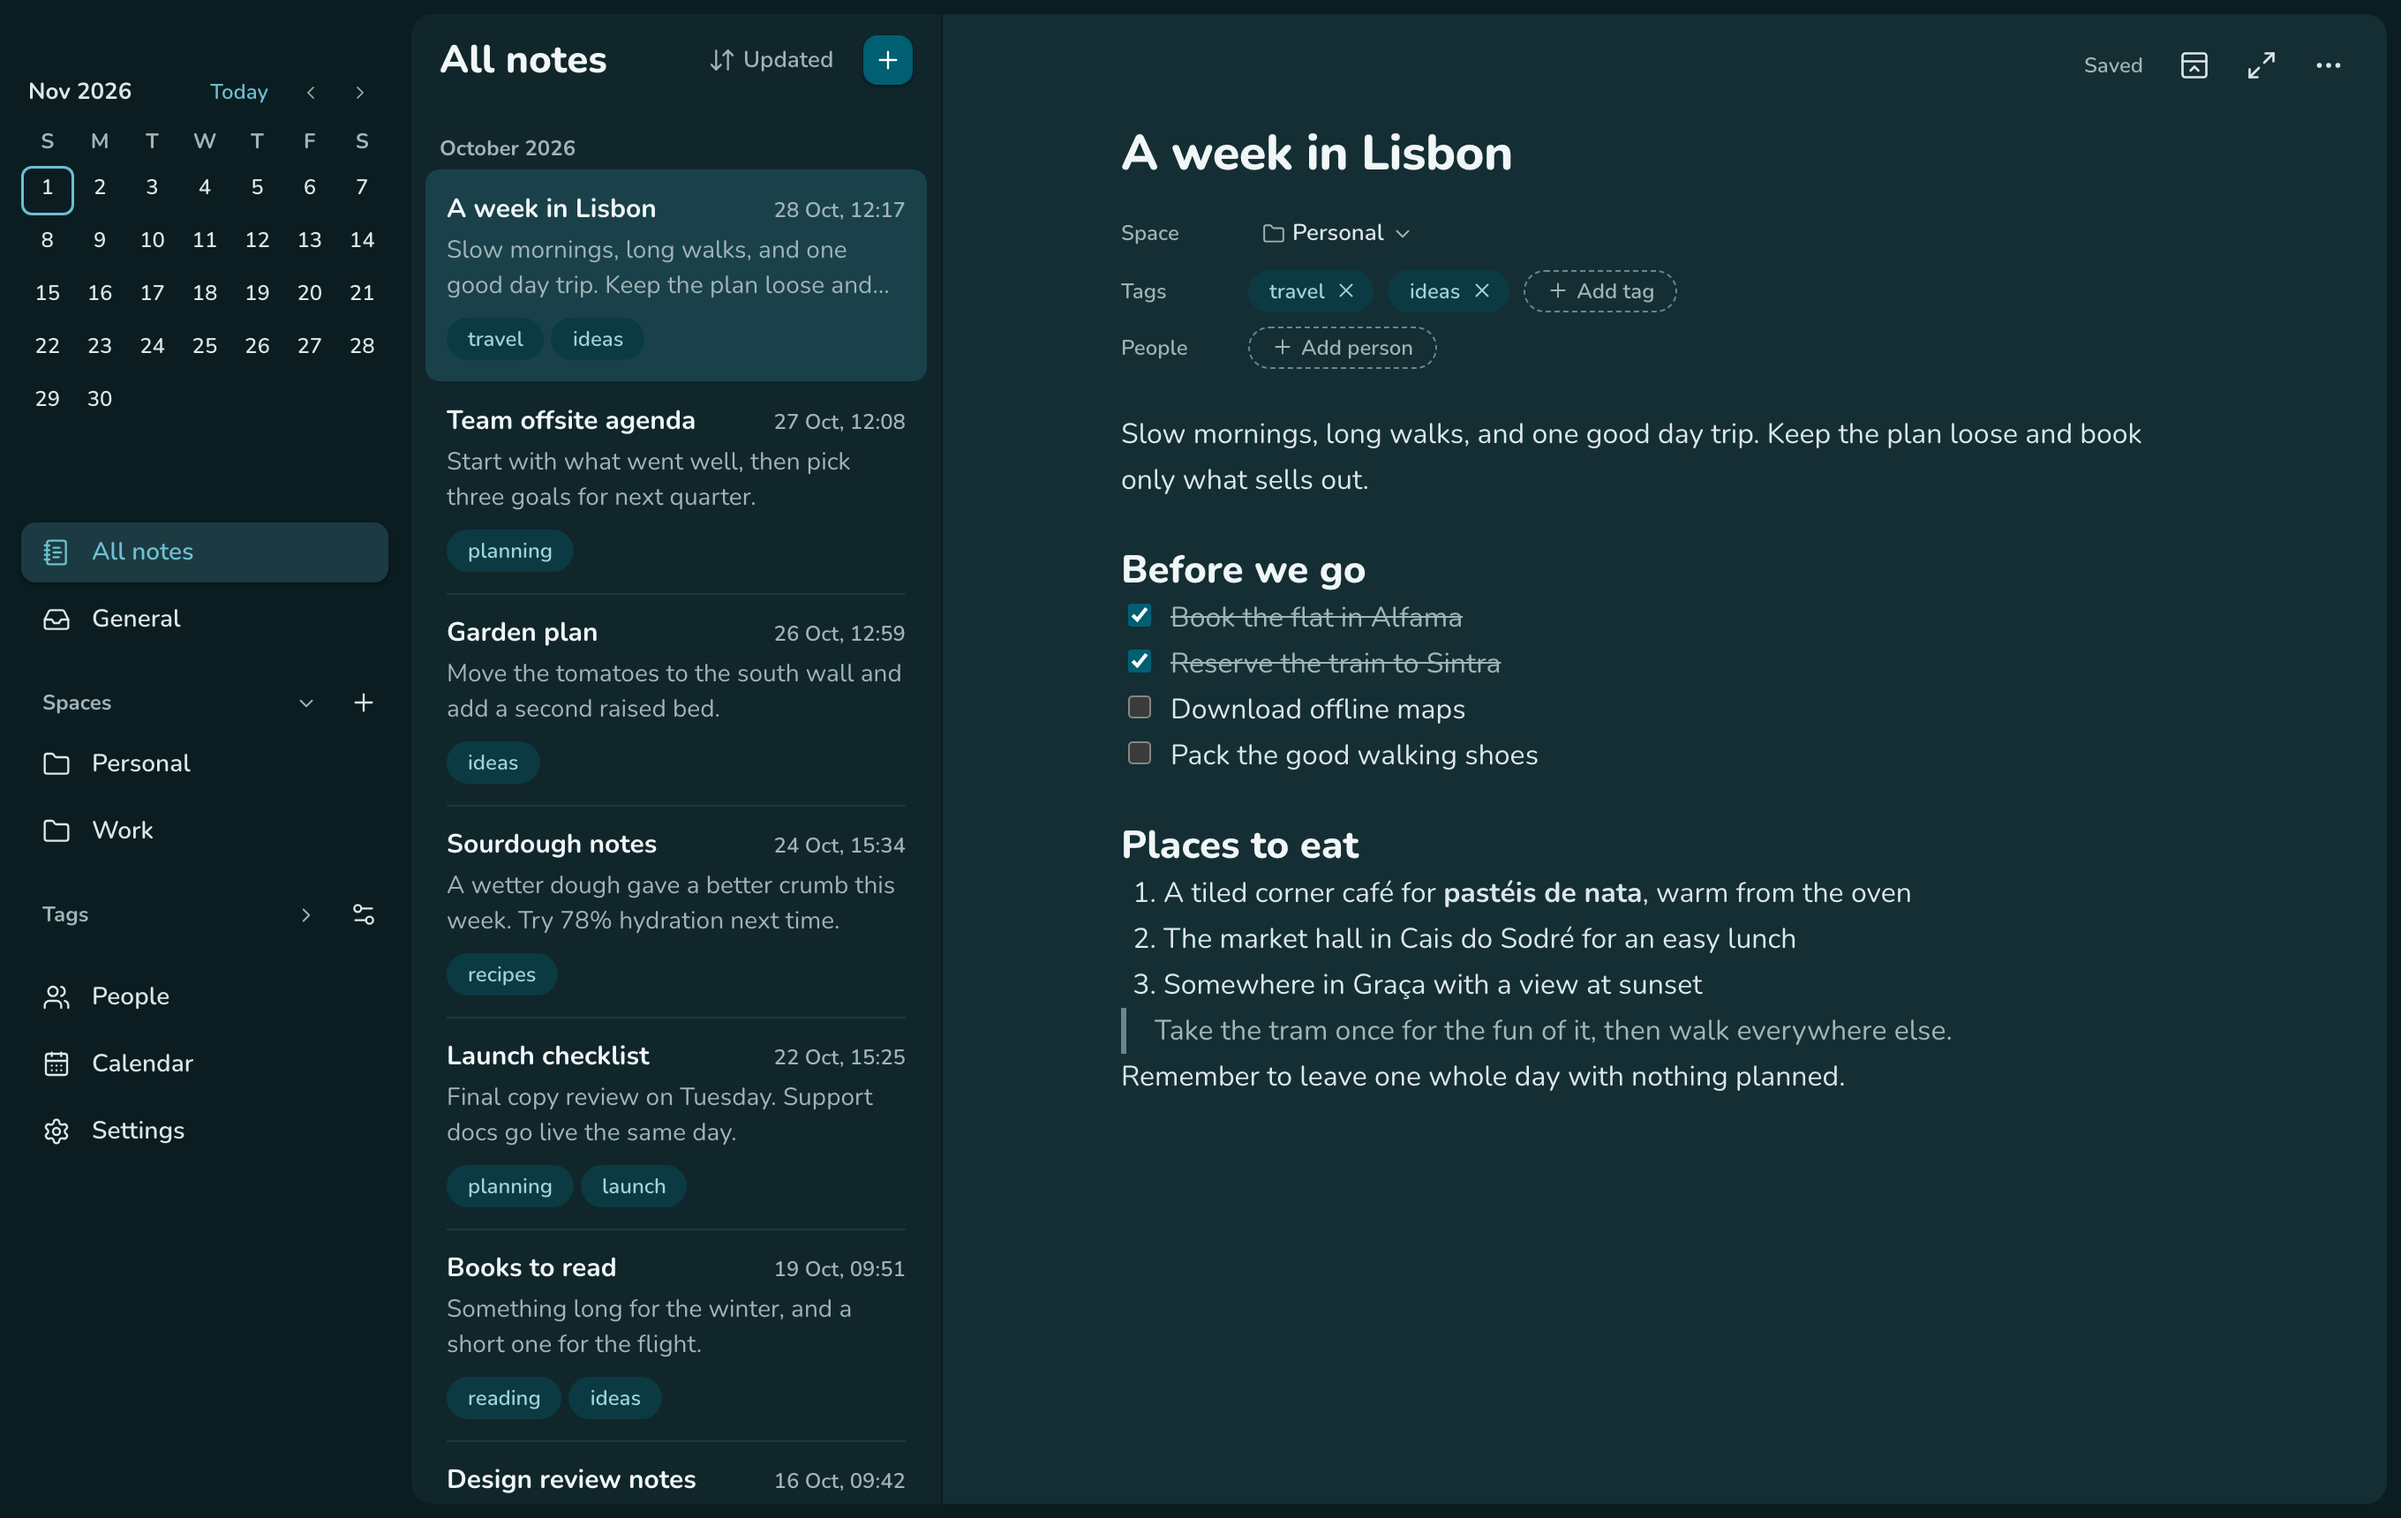
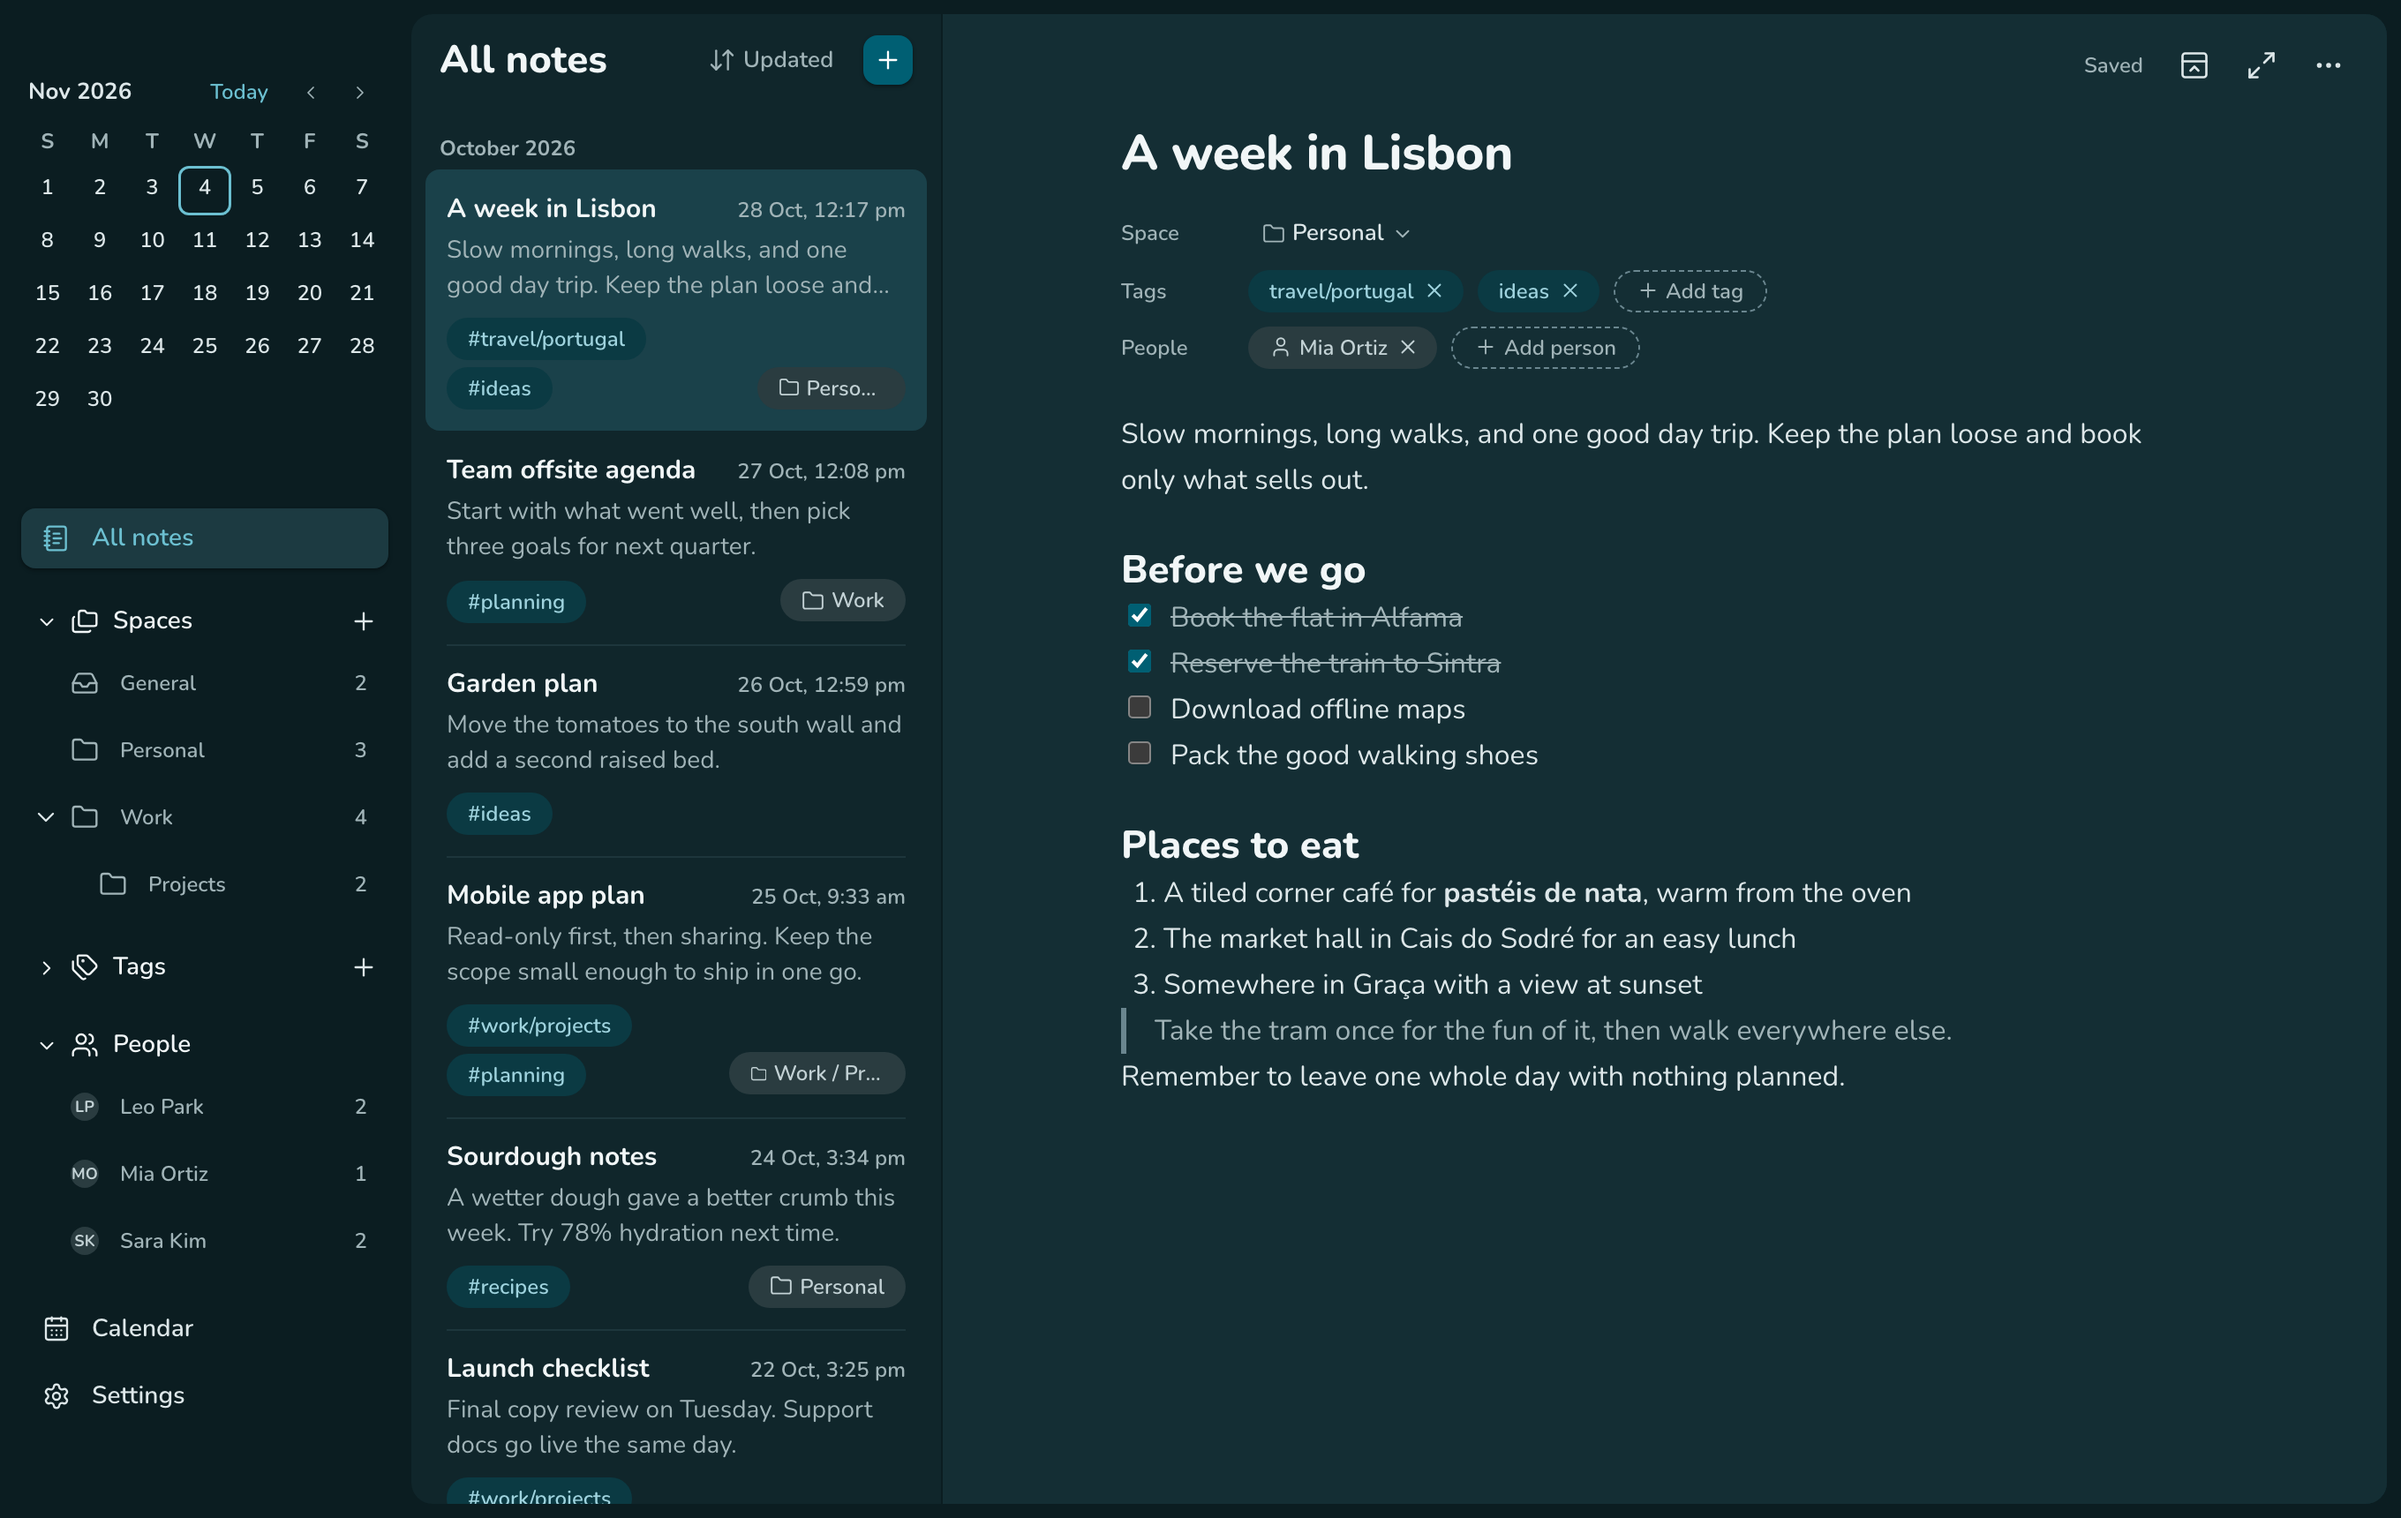
Update the screenshots and README for 1.1.0

diff --git a/README.md b/README.md
@@ -1,4 +1,4 @@
-The first release of borNote, a calm note-taking app for macOS. Your notes are plain Markdown files in a folder you own, so they stay readable without the app.
+borNote is a calm note-taking app for macOS. Your notes are plain Markdown files in a folder you own, so they stay readable without the app.
 
 ![borNote in the light theme, with the sidebar, note list and an open note](screenshots/light.png)
 
@@ -7,7 +7,7 @@ The first release of borNote, a calm note-taking app for macOS. Your notes are p
 ## What's in it
 
 - **WYSIWYG writing:** type in a clean editor, with no blocks, and borNote saves Markdown.
-- **Spaces and tags:** keep each note in one Space or none, and add as many tags as you like.
+- **Spaces and tags:** keep each note in one Space or none, and nest Spaces inside each other. Add as many tags as you like, and nest them too, like `work/projects`.
 - **Search:** fast full-text search with filters.
 - **Images:** add images inline.
 - **Meeting notes:** see your Mac's calendars in an agenda and take notes on an event. A People section tracks who attended. borNote only reads your calendar.
@@ -18,7 +18,7 @@ The first release of borNote, a calm note-taking app for macOS. Your notes are p
 
 Get the latest version from the [Releases page](https://github.com/borna761/bornote-releases/releases/latest).
 
-1. Download the `.dmg` for your Mac: `aarch64` for Apple Silicon, `x64` for Intel. Requires macOS 13 or later.
+1. Download the `.dmg`. It's for Apple Silicon Macs and requires macOS 13 or later.
 2. Open it and drag borNote into Applications.
 3. Open borNote and pick a folder for your notes.
 
